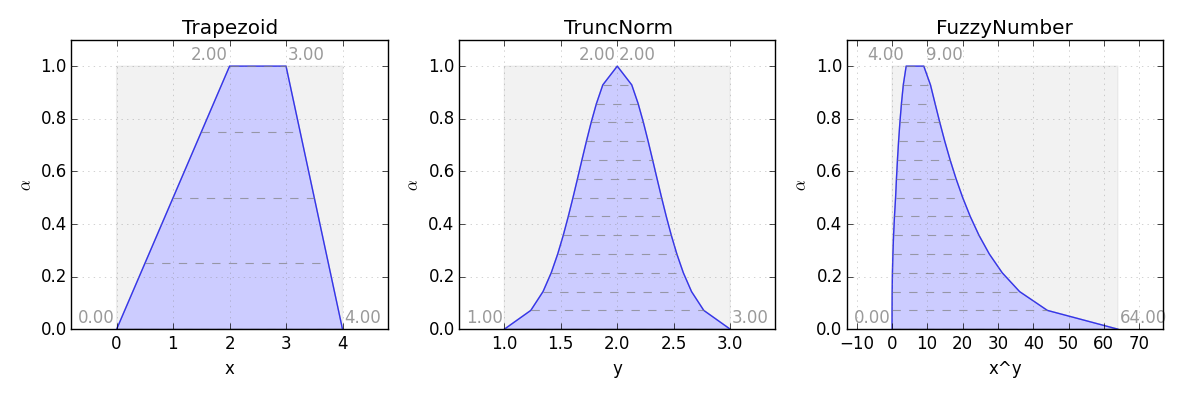
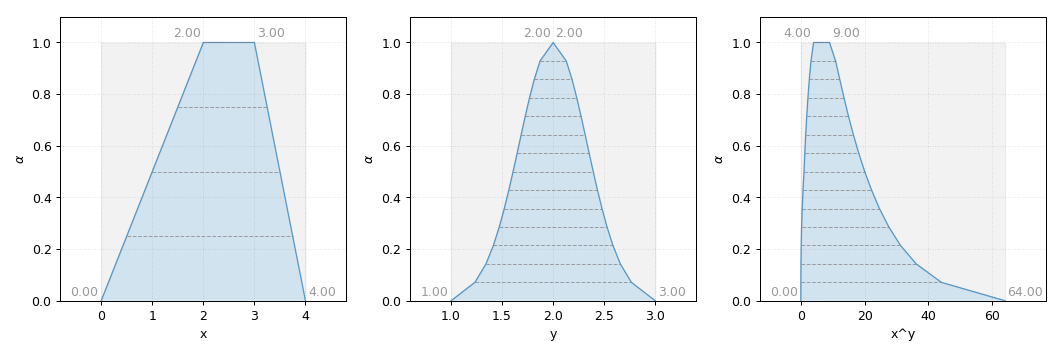
update pitchme

diff --git a/doc/plot_fuzzy_numbers.py b/doc/plot_fuzzy_numbers.py
@@ -156,7 +156,7 @@ def plot_pow():
     z.plot(ax=axs[2])
 
     fig.tight_layout()
-    fig.savefig("x^y.png")
+    fig.savefig("x**y.png")
     plt.show()
 
 
@@ -167,8 +167,13 @@ def plot_pow2():
 
     for i in range(3):
         axs[0,i].get_shared_x_axes().join(axs[0,i],axs[1,i],axs[2,i])
+    for i in range(1,3):
+        axs[i,0].set_xlabel("x")
+        axs[i,1].set_xlabel("y")
+        axs[i,2].set_xlabel("x^y")
 
-        axs[i,0].get_shared_y_axes().join(axs[i,0],axs[i,1],axs[i,1])
+    i=2
+    axs[i,0].get_shared_y_axes().join(axs[i,0],axs[i,1],axs[i,2])
 
     x = phuzzy.Trapezoid(alpha0=[0, 4], alpha1=[2, 3], number_of_alpha_levels=5)
     mix_mpl(x)
@@ -222,7 +227,7 @@ def plot_pow2():
         ax.set_ylim(0, None)
 
     fig.tight_layout()
-    fig.savefig("x^y.png")
+    fig.savefig("x**y_pdf_cdf.png")
     plt.show()
 
 
@@ -282,7 +287,7 @@ if __name__ == '__main__':
     # plot_sub()
     # plot_mul()
     # plot_div()
-    # plot_pow()
+    plot_pow()
     plot_pow2()
     # plot_gennorm_mix()
     # plot_superellipse()
